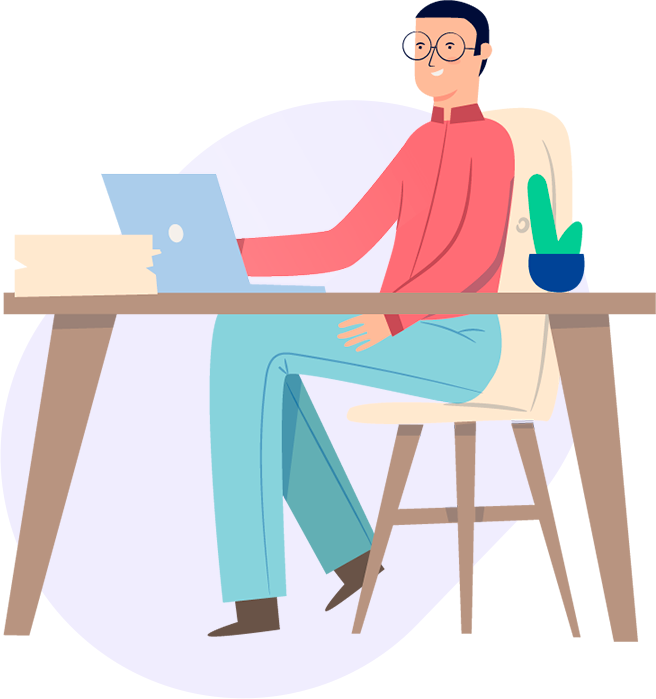
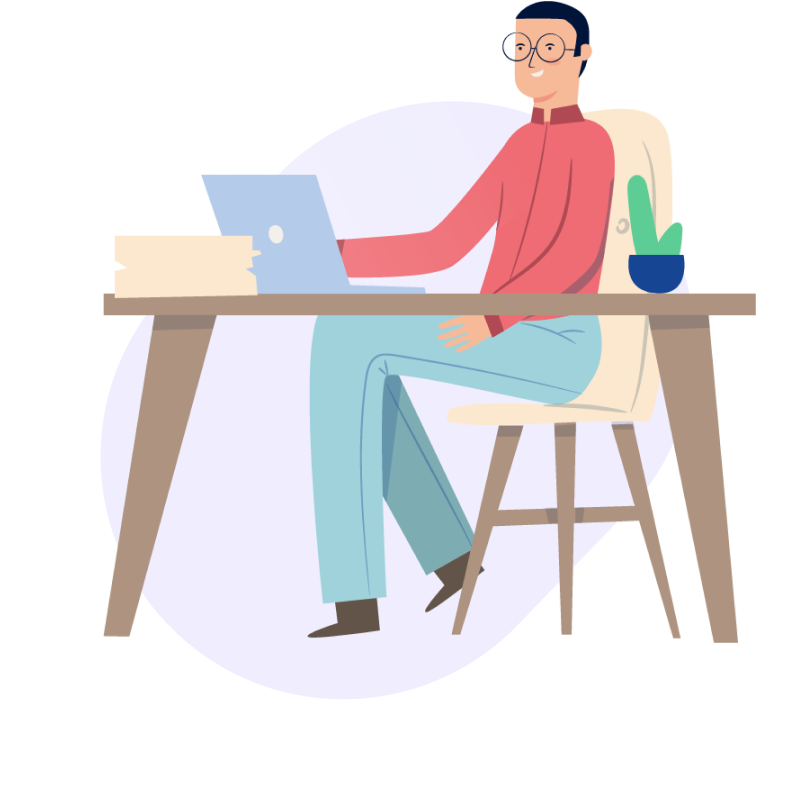
bug fix

diff --git a/css/style.css b/css/style.css
@@ -68,12 +68,6 @@ h3 {
     margin: 0 auto;
 }
 
-/* .background {
-    max-width: 1143px;
-    height: 480px;
-    margin-top: 14.4rem;
-} */
-
 .divider {
     border: none;
     border-bottom: 1px solid #e1e4ed;
@@ -237,8 +231,9 @@ ul {
 
 .btn-bottom {
     position: absolute;
-    bottom: -9.5rem;
-    left: 45%;
+    bottom: -12rem;
+    left: 50%;
+    transform: translateX(-50%);
     background-color: #6852ed;
     color: #ffffff;
     width: 11rem;
@@ -276,6 +271,7 @@ ul {
     border-radius: 10px;
     box-shadow: 0 0 20px 0 #e1e4ed;
     width: 360px;
+    height: 240px;
 }
 
 .card:hover {
@@ -415,54 +411,54 @@ ul {
 
 .left-circle {
     position: absolute;
-    top: 7rem;
-    left: 3rem;
-    width: 18rem;
-    height: 18rem;
+    top: 70px;
+    left: 30px;
+    width: 180px;
+    height: 180px;
     background-color: #ba43fc;
     border-radius: 50%;
 }
 
 .right-circle {
     position: absolute;
-    top: 10rem;
-    left: 180rem;
+    top: 100px;
+    right: 0;
 }
 
 .med-pink-circle {
     position: absolute;
-    top: 5rem;
-    left: 36rem;
+    top: 50px;
+    left: 350px;
 }
 
 .small-pink-circle {
     position: absolute;
-    top: 5rem;
-    left: 128rem;
+    top: 50px;
+    right: 25%;
 }
 
 .small-purpl-circle {
     position: absolute;
-    top: 27rem;
-    left: 32rem;
+    top: 270px;
+    left: 320px;
 }
 
 .big-purpl-circle {
     position: absolute;
-    top: 31rem;
-    left: 147rem;
+    top: 310px;
+    right: 15%;
 }
 
 .shape-left {
     position: absolute;
-    top: 38rem;
-    left: 5rem;
+    top: 380px;
+    left: 50px;
 }
 
 .shape-right {
     position: absolute;
     top: 0;
-    left: 172rem;
+    right: 0;
 }
 
 .services {
@@ -579,13 +575,17 @@ ul {
     background-color: #f5ecfe;
     position: relative;
     margin: 14rem 0;
-    /* overflow: hidden; */
+    overflow: hidden;
 }
 
 .call__section-content {
     display: flex;
     justify-content: space-between;
-    padding: 6.5rem 39rem;
+    padding: 6.5rem;
+    height: 100%;
+    align-items: center;
+    width: 1143px;
+    margin: auto;
 
 }
 
@@ -598,7 +598,7 @@ ul {
 .call-small-pink {
     position: absolute;
     top: 1.4rem;
-    left: 165rem;
+    right: 165px;
     width: 50px;
     height: 50px;
     background-color: #ba43fc;
@@ -607,12 +607,22 @@ ul {
 
 .call-small-ppl {
     position: absolute;
-    bottom: 0px;
+    bottom: -20px;
     right: 2%;
     width: 111px;
     height: 111px;
     background-color: #6852ed;
     border-radius: 50%;
+}
+
+.call-oval {
+    position: absolute;
+    width: 206px;
+    height: 475px;
+    background-color: #6852ed;
+    border-radius: 50%/20%;
+    transform: rotate(45deg);
+    bottom: -380px;
 }
 
 .tarif-section {
@@ -770,6 +780,7 @@ ul {
     height: 500px;
     background-color: #f3edfe;
     position: relative;
+    overflow: hidden;
 }
 
 .footer__container {
@@ -777,8 +788,8 @@ ul {
     justify-content: space-between;
     position: absolute;
     top: 11rem;
-    left: 39rem;
     width: 1143px;
+    z-index: 1;
 }
 
 .footer-subscribe {
@@ -932,6 +943,53 @@ ul {
     font-size: 1.6rem;
     line-height: 1.69;
     color: #716c80;
+}
+
+.circle-purple {
+    background-color: #6852ed;
+    position: absolute;
+}
+
+.footer-circle-huge {
+    width: 485px;
+    height: 1213px;
+    border-radius: 245px;
+    transform: rotate(45deg);
+    top: -106px;
+    left: -14px;
+}
+
+.footer-circle-big {
+    width: 101px;
+    height: 101px;
+    right: 141px;
+    border-radius: 50%;
+}
+
+.footer-circle-small {
+    width: 20px;
+    height: 20px;
+    top: 400px;
+    right: 347px;
+    border-radius: 50%;
+}
+
+.footer-cut-circle {
+    width: 101px;
+    height: 101px;
+    top: 475px;
+    border-radius: 50%;
+    left: 50%;
+}
+
+.footer-circle-pink {
+    position: absolute;
+    width: 60px;
+    height: 60px;
+    top: 349px;
+    right: 268px;
+    border-radius: 50%;
+    background-color: #ba43fc;
 }
 
 /*transform: translateX(-50%); */

diff --git a/index.html b/index.html
@@ -90,7 +90,7 @@
             <a href="#" class="link link-arrow">Order similar</a>
           </div>
         </div>
-        <img src="img/asset-1-4-x.png" alt="stage image" class="hero" />
+        <img src="img//asset-1-4-x.png" alt="stage image" class="hero" />
         <img src="img/hero-shape.png" alt="shape image" class="hero-shape" />
         <a href="#card__content" class="btn-bottom"
           ><i class="fa-solid fa-arrow-down"></i
@@ -297,6 +297,7 @@
       </div>
       <div class="call-small-pink"></div>
       <div class="call-small-ppl"></div>
+      <div class="call-oval"></div>
     </div>
     <div class="wrapper">
       <div class="tarif-section">
@@ -402,7 +403,7 @@
       </div>
     </div>
     <div class="footer">
-      <img src="img/fshape.png" alt="circle" class="footer-huge-purple" />
+      <!-- <img src="img/fshape.png" alt="circle" class="footer-huge-purple" /> -->
       <div class="wrapper">
         <div class="footer__container">
           <div class="footer-contacts">
@@ -460,6 +461,11 @@
             </div>
           </div>
         </div>
+        <div class="footer-circle-huge circle-purple"></div>
+        <div class="footer-circle-big circle-purple"></div>
+        <div class="footer-circle-small circle-purple"></div>
+        <div class="footer-cut-circle circle-purple"></div>
+        <div class="footer-circle-pink"></div>
       </div>
     </div>
   </body>
